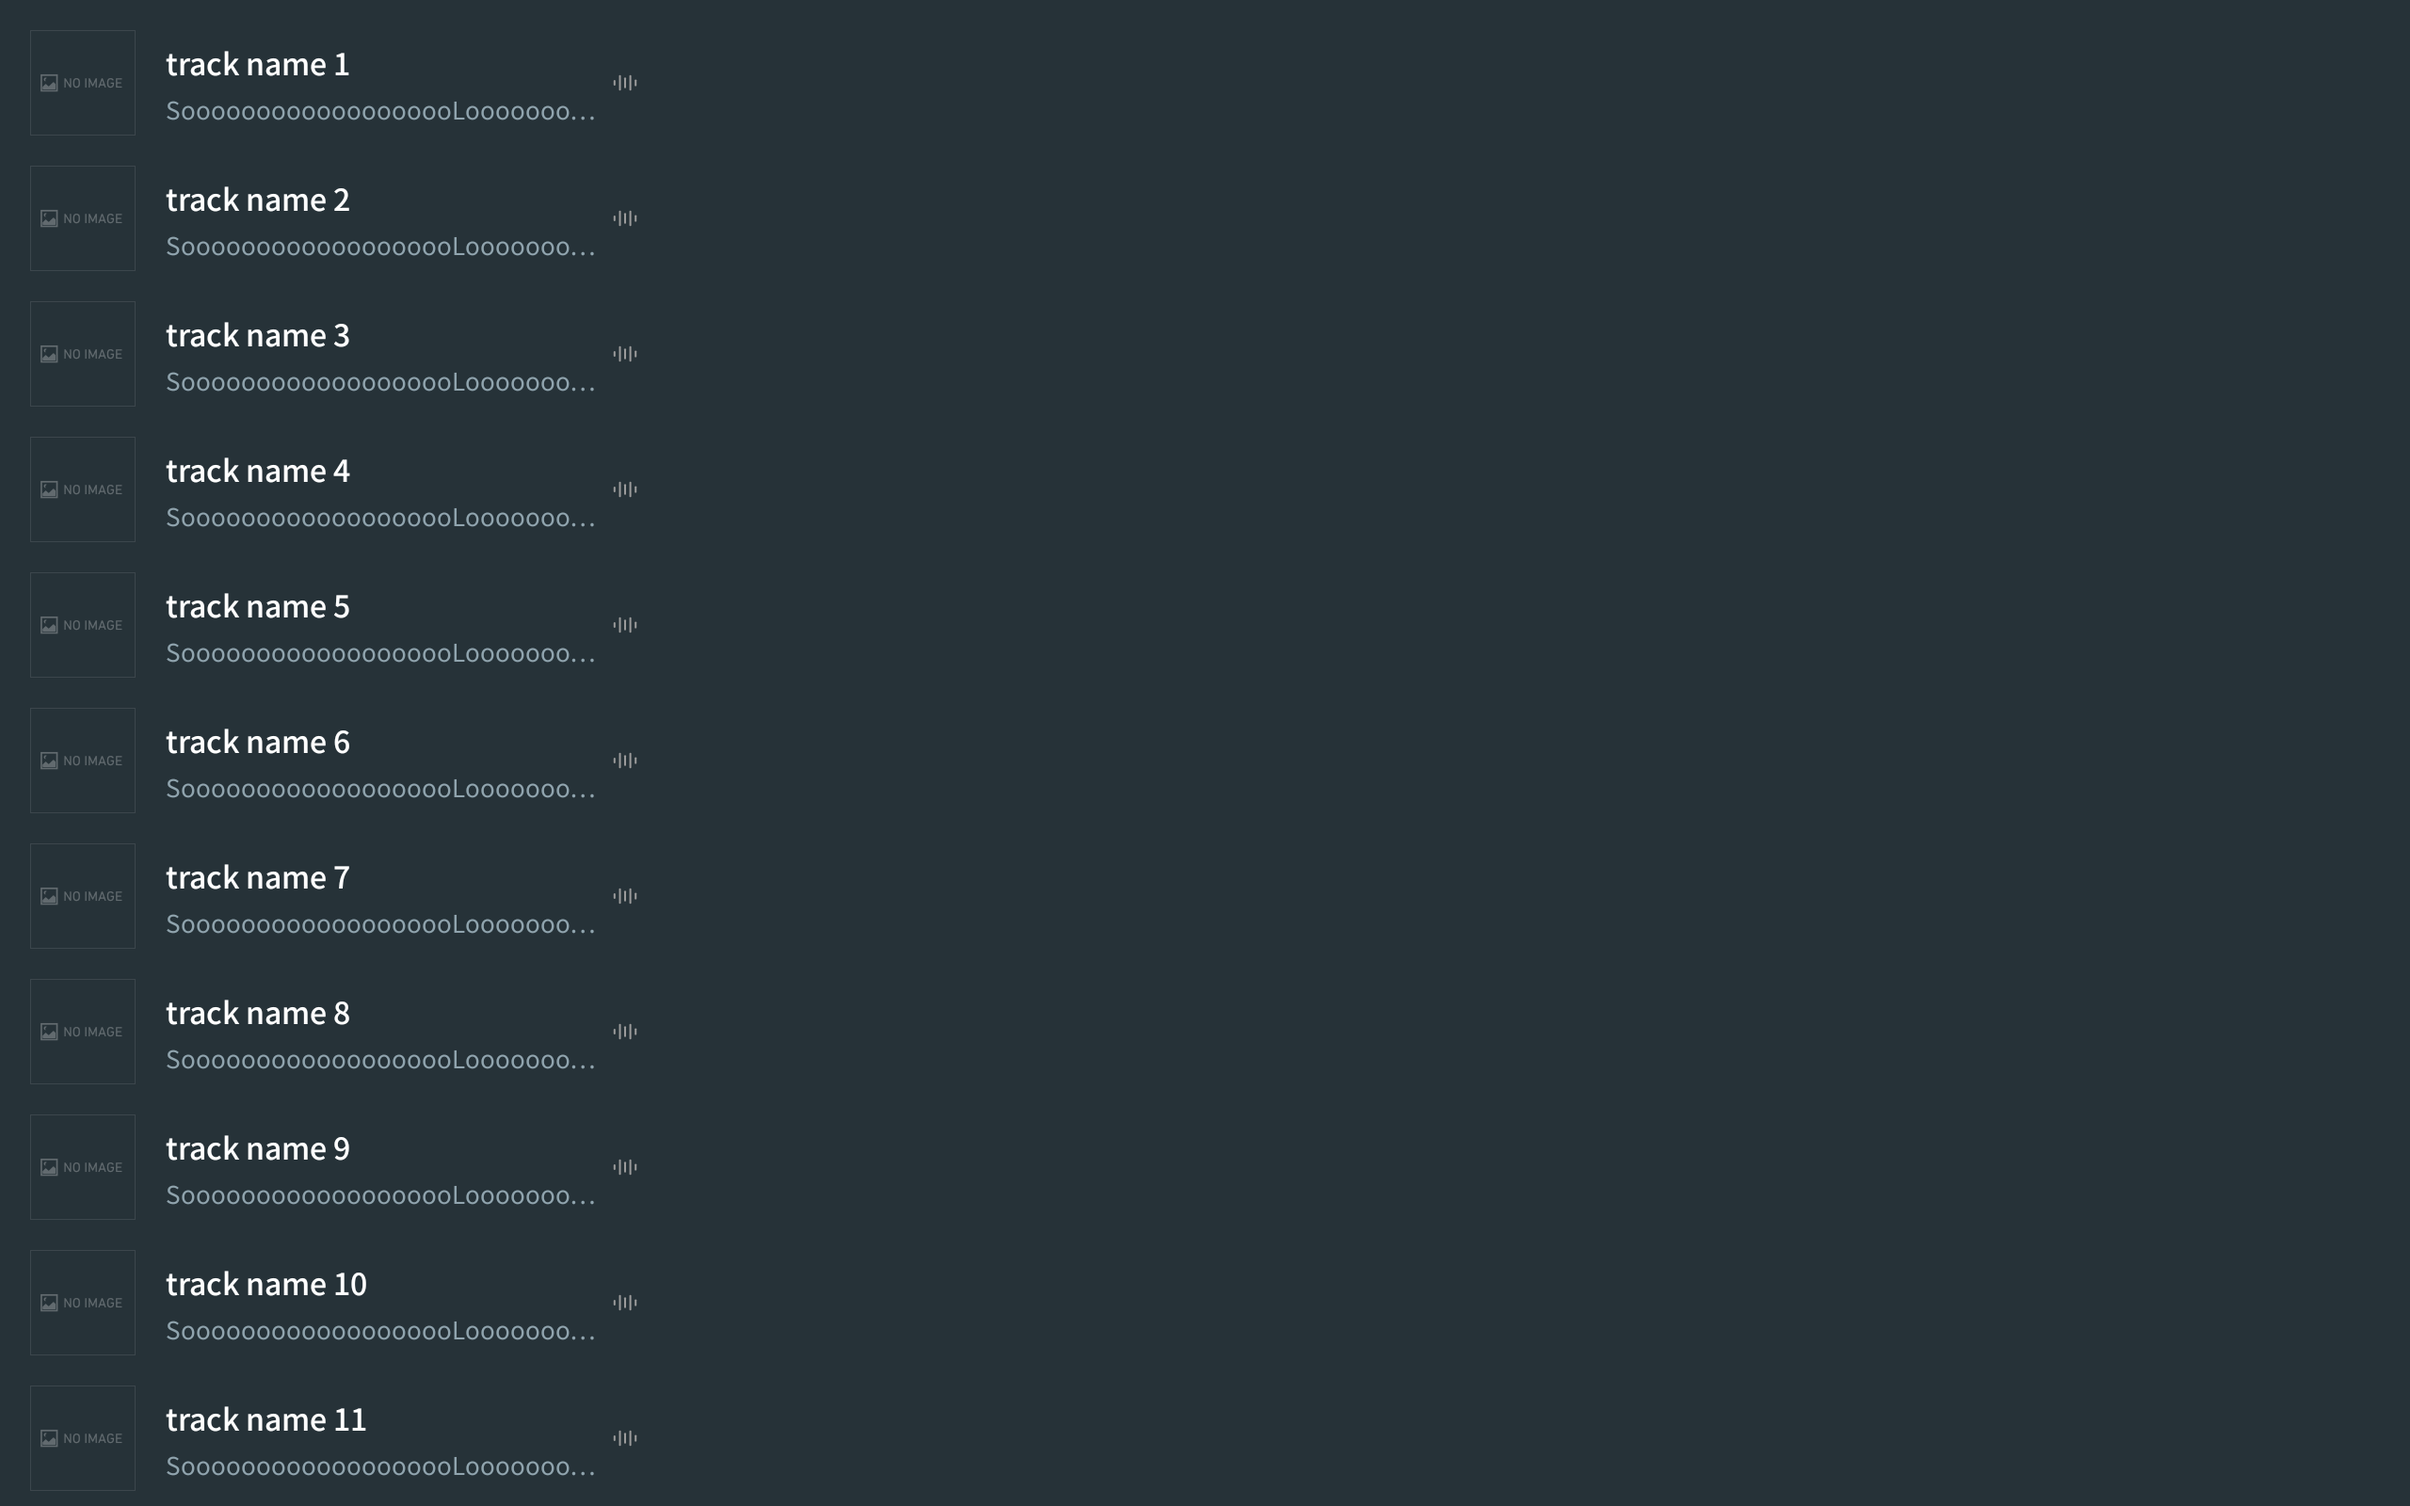
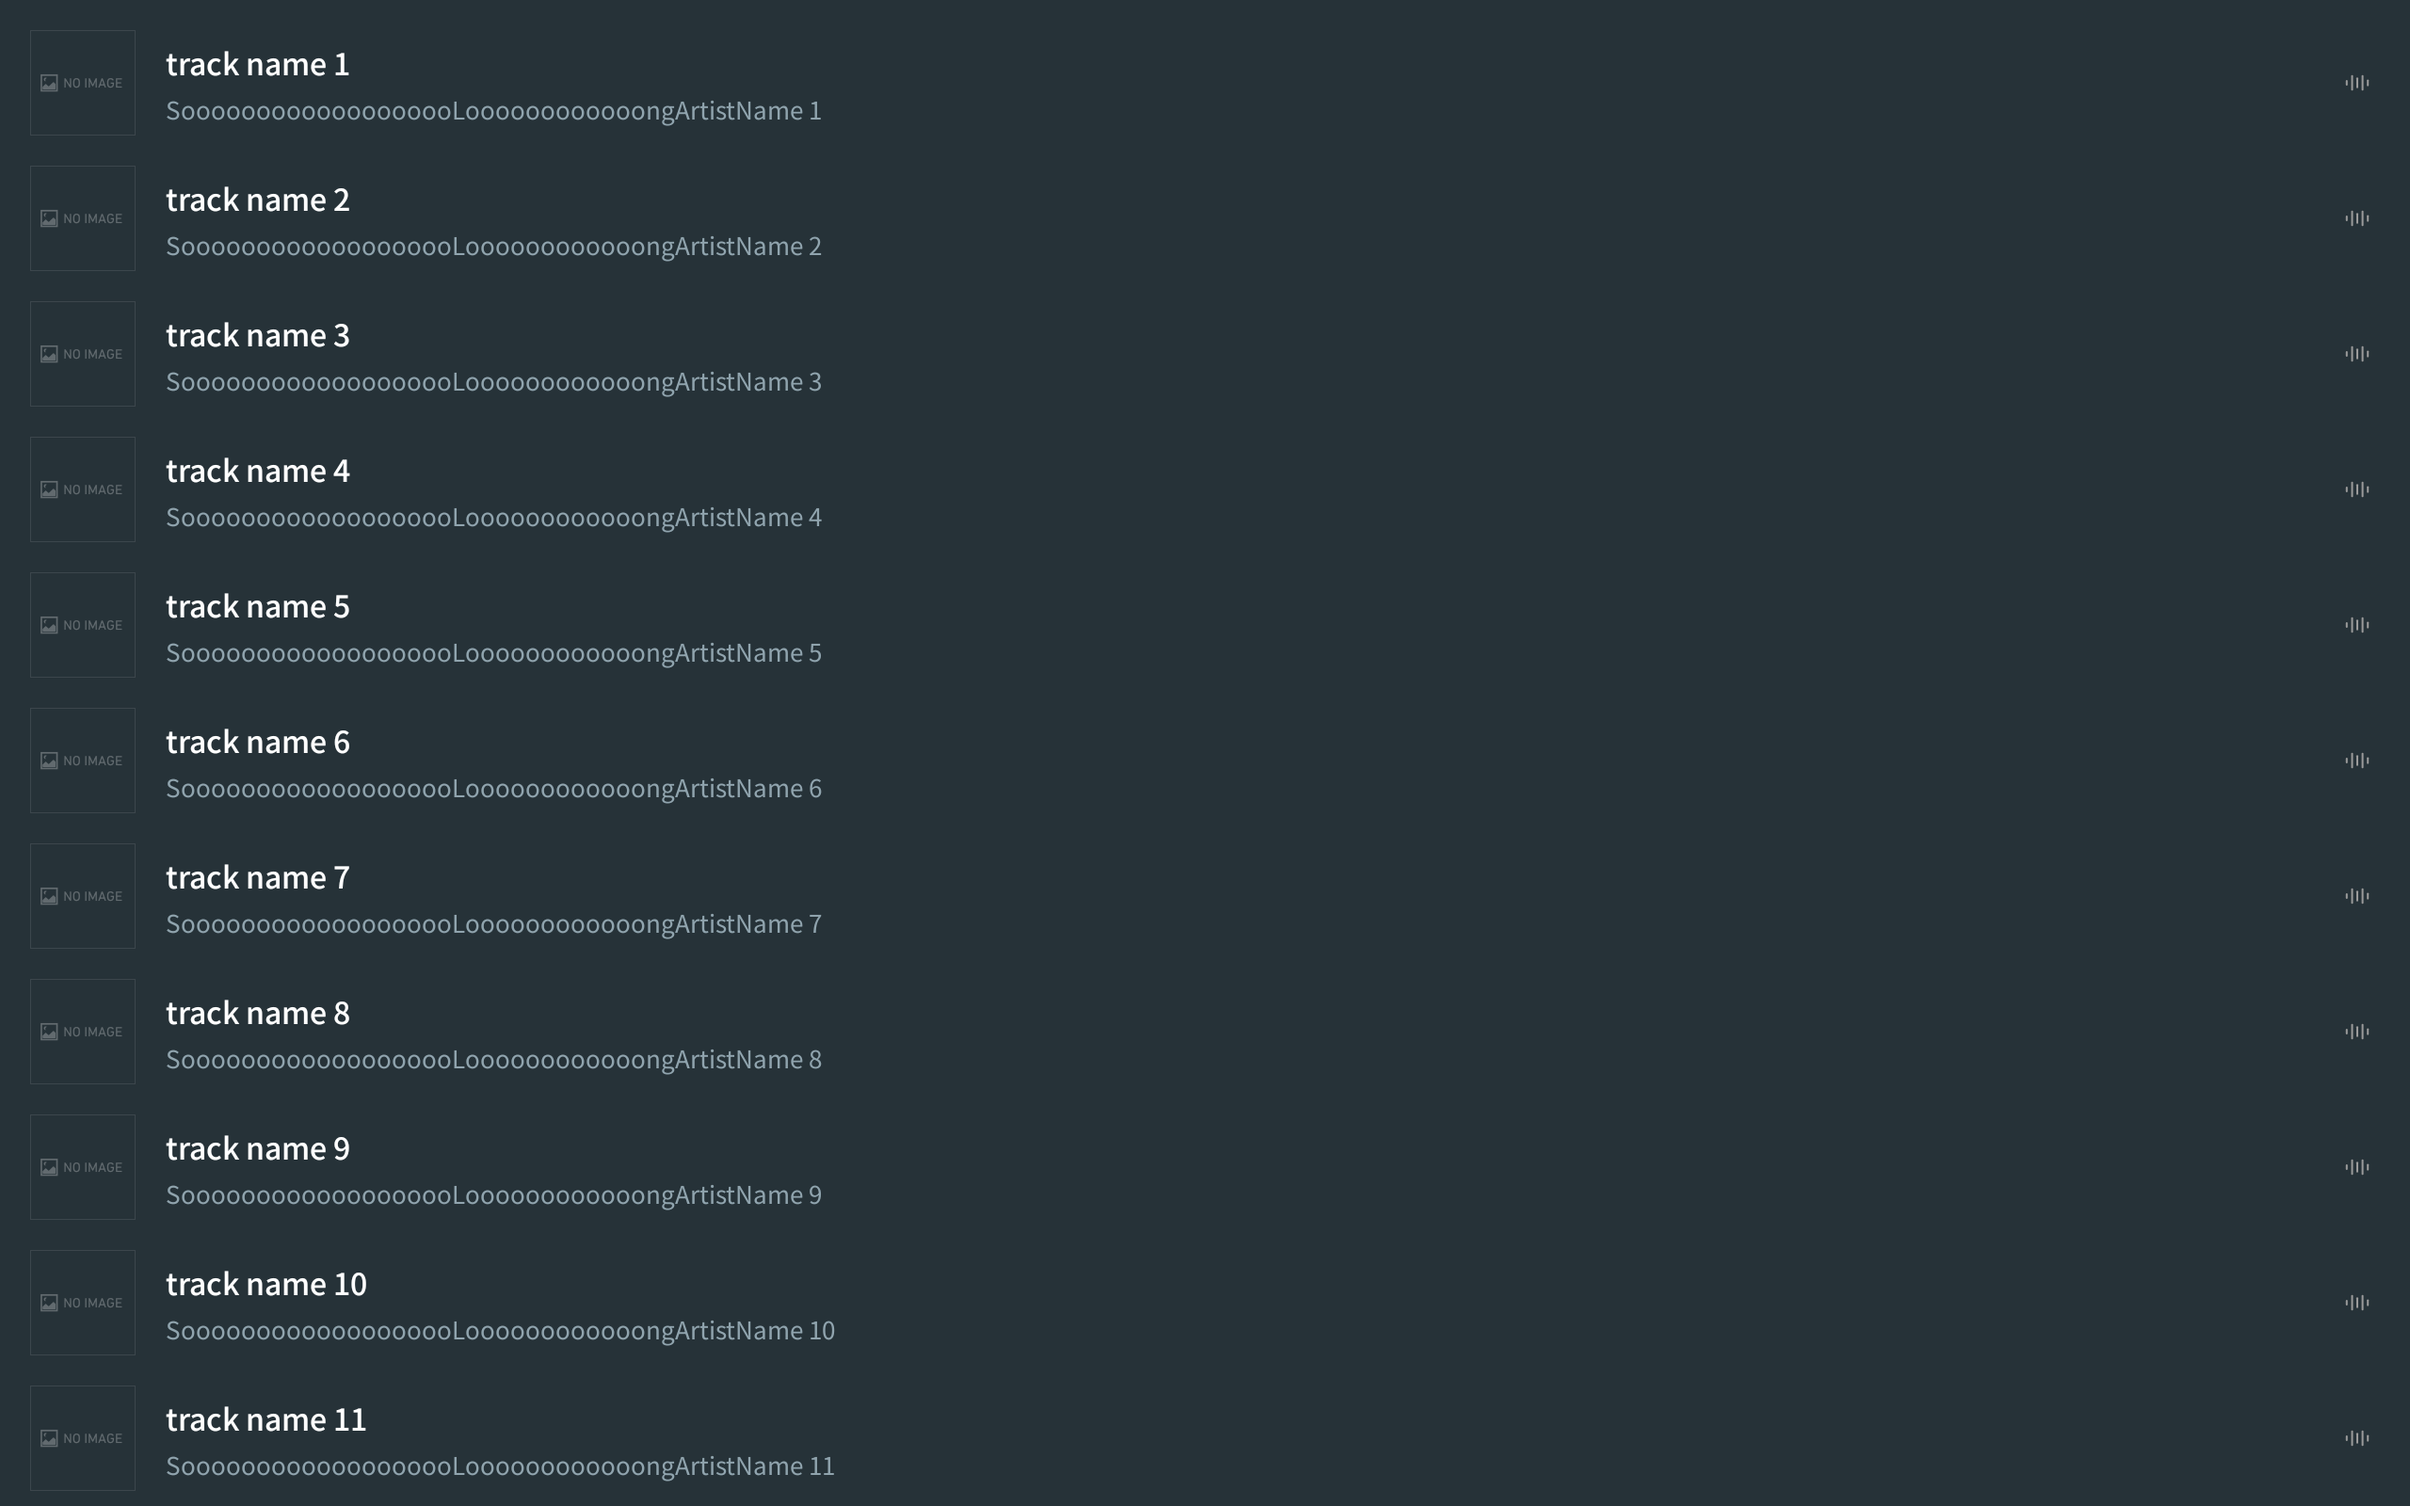
fix(ui_common): pass directive override into navigator so list pane fills full width when detail is unselected
- Track selection in a separate MutableState<Boolean> updated by selectDetail/back
- Compute effectiveDirective (maxHorizontalPartitions=1 when no selection) before rememberListDetailPaneScaffoldNavigator
- Pass effectiveDirective as scaffoldDirective to the navigator so scaffoldValue is recomputed correctly
- Remove the now-redundant directive override in SunsetListDetailScaffold composable
- Regenerate scrobble_screen_tablet.png golden (96973 → 132368 bytes, list pane now full width)

diff --git a/ui_common/src/main/java/com/mataku/scrobscrob/ui_common/component/designsystem/SunsetListDetailScaffold.kt b/ui_common/src/main/java/com/mataku/scrobscrob/ui_common/component/designsystem/SunsetListDetailScaffold.kt
@@ -3,15 +3,19 @@ package com.mataku.scrobscrob.ui_common.component.designsystem
 import androidx.activity.compose.BackHandler
 import androidx.compose.animation.AnimatedVisibilityScope
 import androidx.compose.material3.adaptive.ExperimentalMaterial3AdaptiveApi
+import androidx.compose.material3.adaptive.currentWindowAdaptiveInfo
 import androidx.compose.material3.adaptive.layout.AnimatedPane
 import androidx.compose.material3.adaptive.layout.ListDetailPaneScaffold
 import androidx.compose.material3.adaptive.layout.ListDetailPaneScaffoldRole
 import androidx.compose.material3.adaptive.layout.PaneAdaptedValue
 import androidx.compose.material3.adaptive.layout.ThreePaneScaffoldRole
+import androidx.compose.material3.adaptive.layout.calculatePaneScaffoldDirective
 import androidx.compose.material3.adaptive.navigation.ThreePaneScaffoldNavigator
 import androidx.compose.material3.adaptive.navigation.rememberListDetailPaneScaffoldNavigator
 import androidx.compose.runtime.Composable
+import androidx.compose.runtime.MutableState
 import androidx.compose.runtime.Stable
+import androidx.compose.runtime.mutableStateOf
 import androidx.compose.runtime.remember
 import androidx.compose.runtime.rememberCoroutineScope
 import androidx.compose.ui.Modifier
@@ -23,6 +27,7 @@ import kotlinx.coroutines.launch
 class SunsetListDetailScaffoldState<T : Any> internal constructor(
   internal val navigator: ThreePaneScaffoldNavigator<T>,
   private val coroutineScope: CoroutineScope,
+  private val hasSelectionState: MutableState<Boolean>,
 ) {
   val selection: T?
     get() = navigator.currentDestination?.contentKey
@@ -37,6 +42,7 @@ class SunsetListDetailScaffoldState<T : Any> internal constructor(
     get() = isListVisible && isDetailVisible
 
   fun selectDetail(value: T) {
+    hasSelectionState.value = true
     coroutineScope.launch {
       navigator.navigateTo(ListDetailPaneScaffoldRole.Detail, value)
     }
@@ -44,6 +50,7 @@ class SunsetListDetailScaffoldState<T : Any> internal constructor(
 
   fun back(): Boolean {
     if (!navigator.canNavigateBack()) return false
+    hasSelectionState.value = false
     coroutineScope.launch { navigator.navigateBack() }
     return true
   }
@@ -52,10 +59,23 @@ class SunsetListDetailScaffoldState<T : Any> internal constructor(
 @OptIn(ExperimentalMaterial3AdaptiveApi::class)
 @Composable
 fun <T : Any> rememberSunsetListDetailScaffoldState(): SunsetListDetailScaffoldState<T> {
-  val navigator = rememberListDetailPaneScaffoldNavigator<T>()
+  val hasSelection = remember { mutableStateOf(false) }
+  val baseDirective = calculatePaneScaffoldDirective(currentWindowAdaptiveInfo())
+  val effectiveDirective = if (hasSelection.value) {
+    baseDirective
+  } else {
+    baseDirective.copy(maxHorizontalPartitions = 1)
+  }
+  val navigator = rememberListDetailPaneScaffoldNavigator<T>(
+    scaffoldDirective = effectiveDirective,
+  )
   val scope = rememberCoroutineScope()
   return remember(navigator, scope) {
-    SunsetListDetailScaffoldState(navigator, scope)
+    SunsetListDetailScaffoldState(
+      navigator = navigator,
+      coroutineScope = scope,
+      hasSelectionState = hasSelection,
+    )
   }
 }
 
@@ -70,14 +90,8 @@ fun <T : Any> SunsetListDetailScaffold(
   BackHandler(enabled = state.navigator.canNavigateBack()) {
     state.back()
   }
-  val baseDirective = state.navigator.scaffoldDirective
-  val effectiveDirective = if (state.selection == null) {
-    baseDirective.copy(maxHorizontalPartitions = 1)
-  } else {
-    baseDirective
-  }
   ListDetailPaneScaffold(
-    directive = effectiveDirective,
+    directive = state.navigator.scaffoldDirective,
     scaffoldState = state.navigator.scaffoldState,
     listPane = {
       AnimatedPane {
